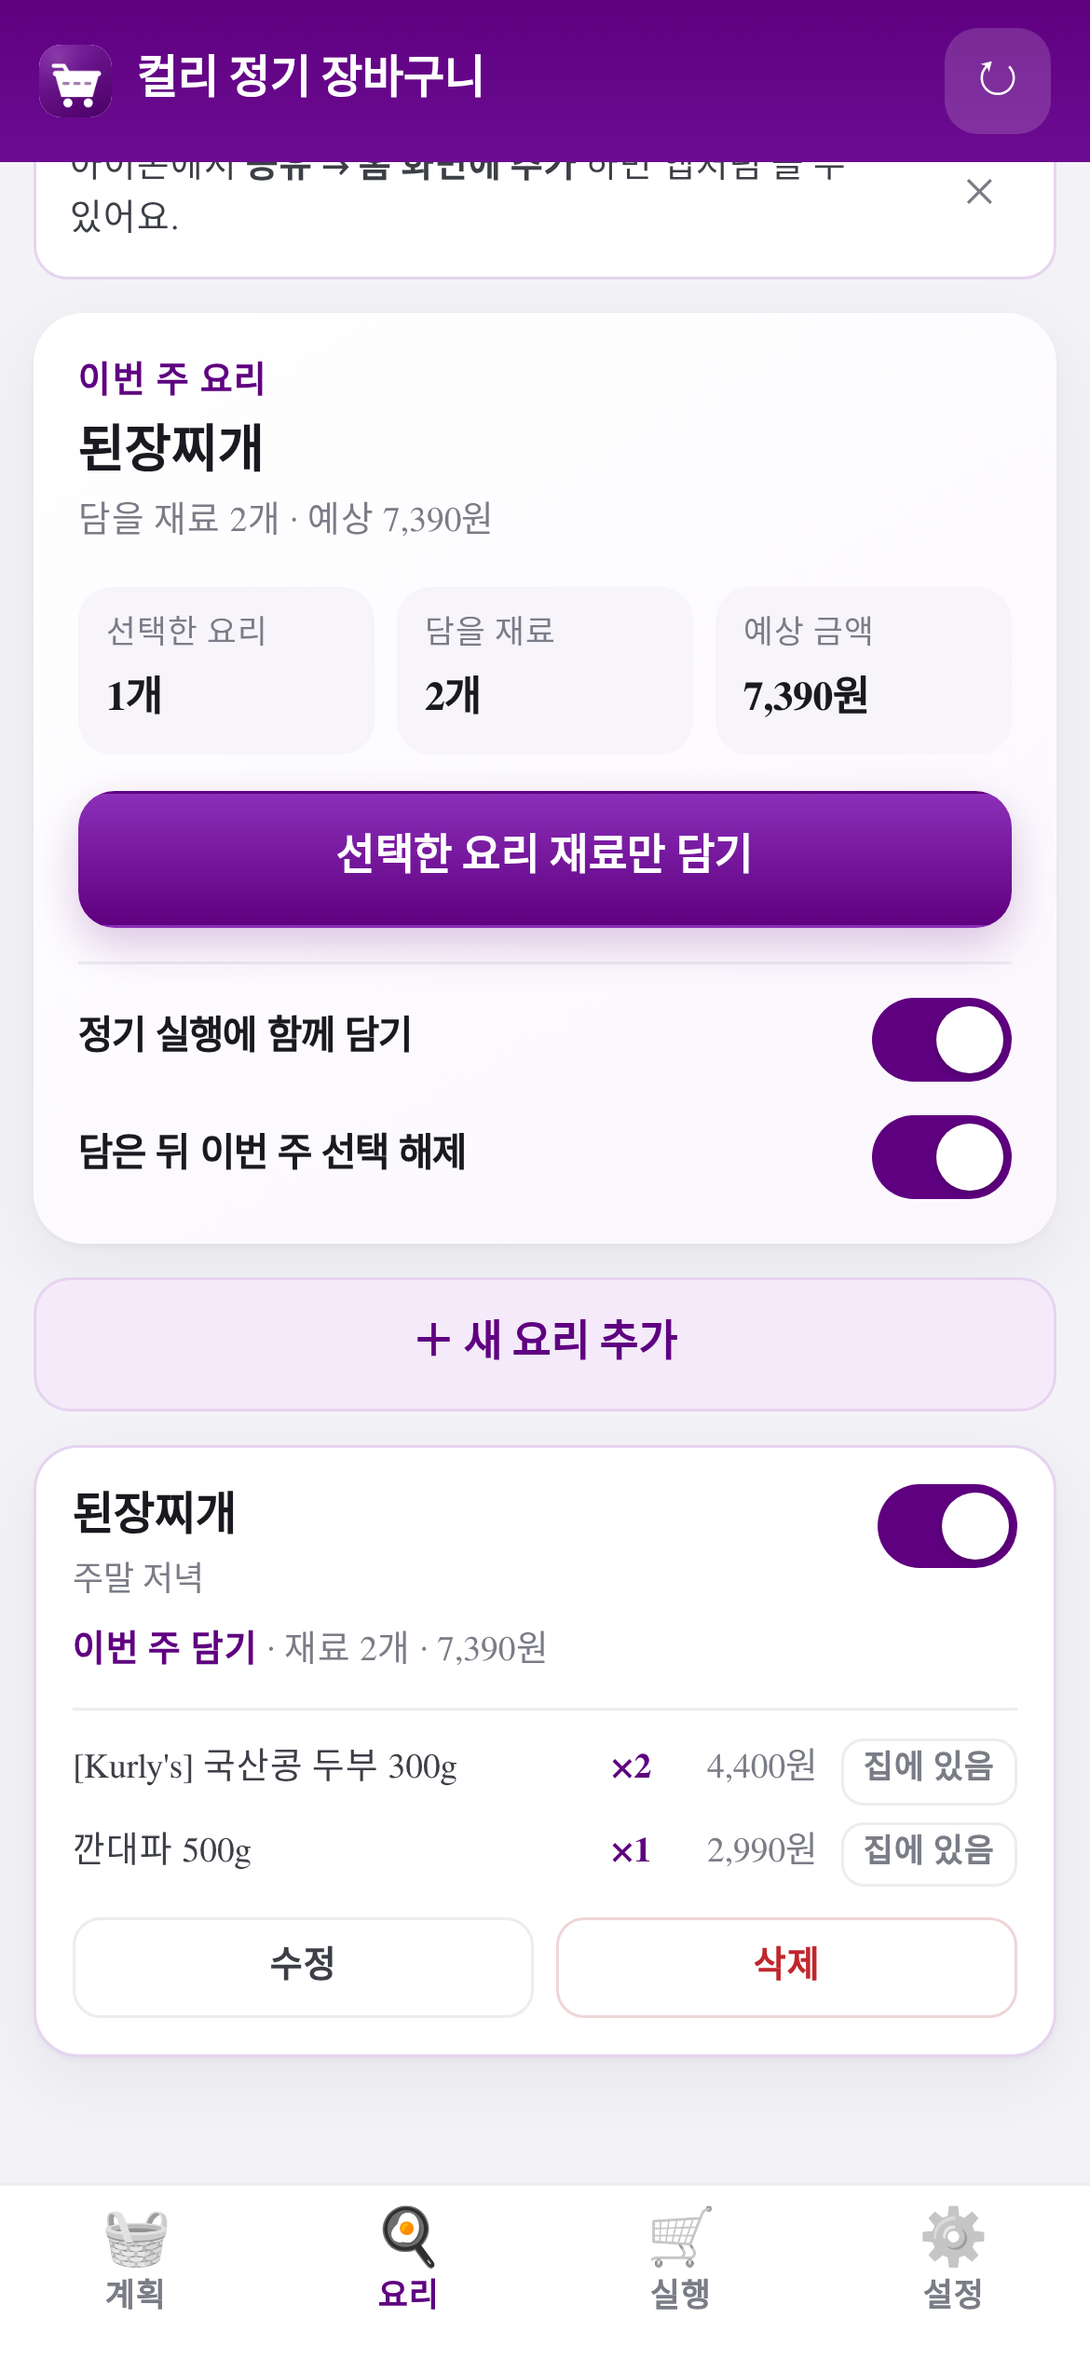
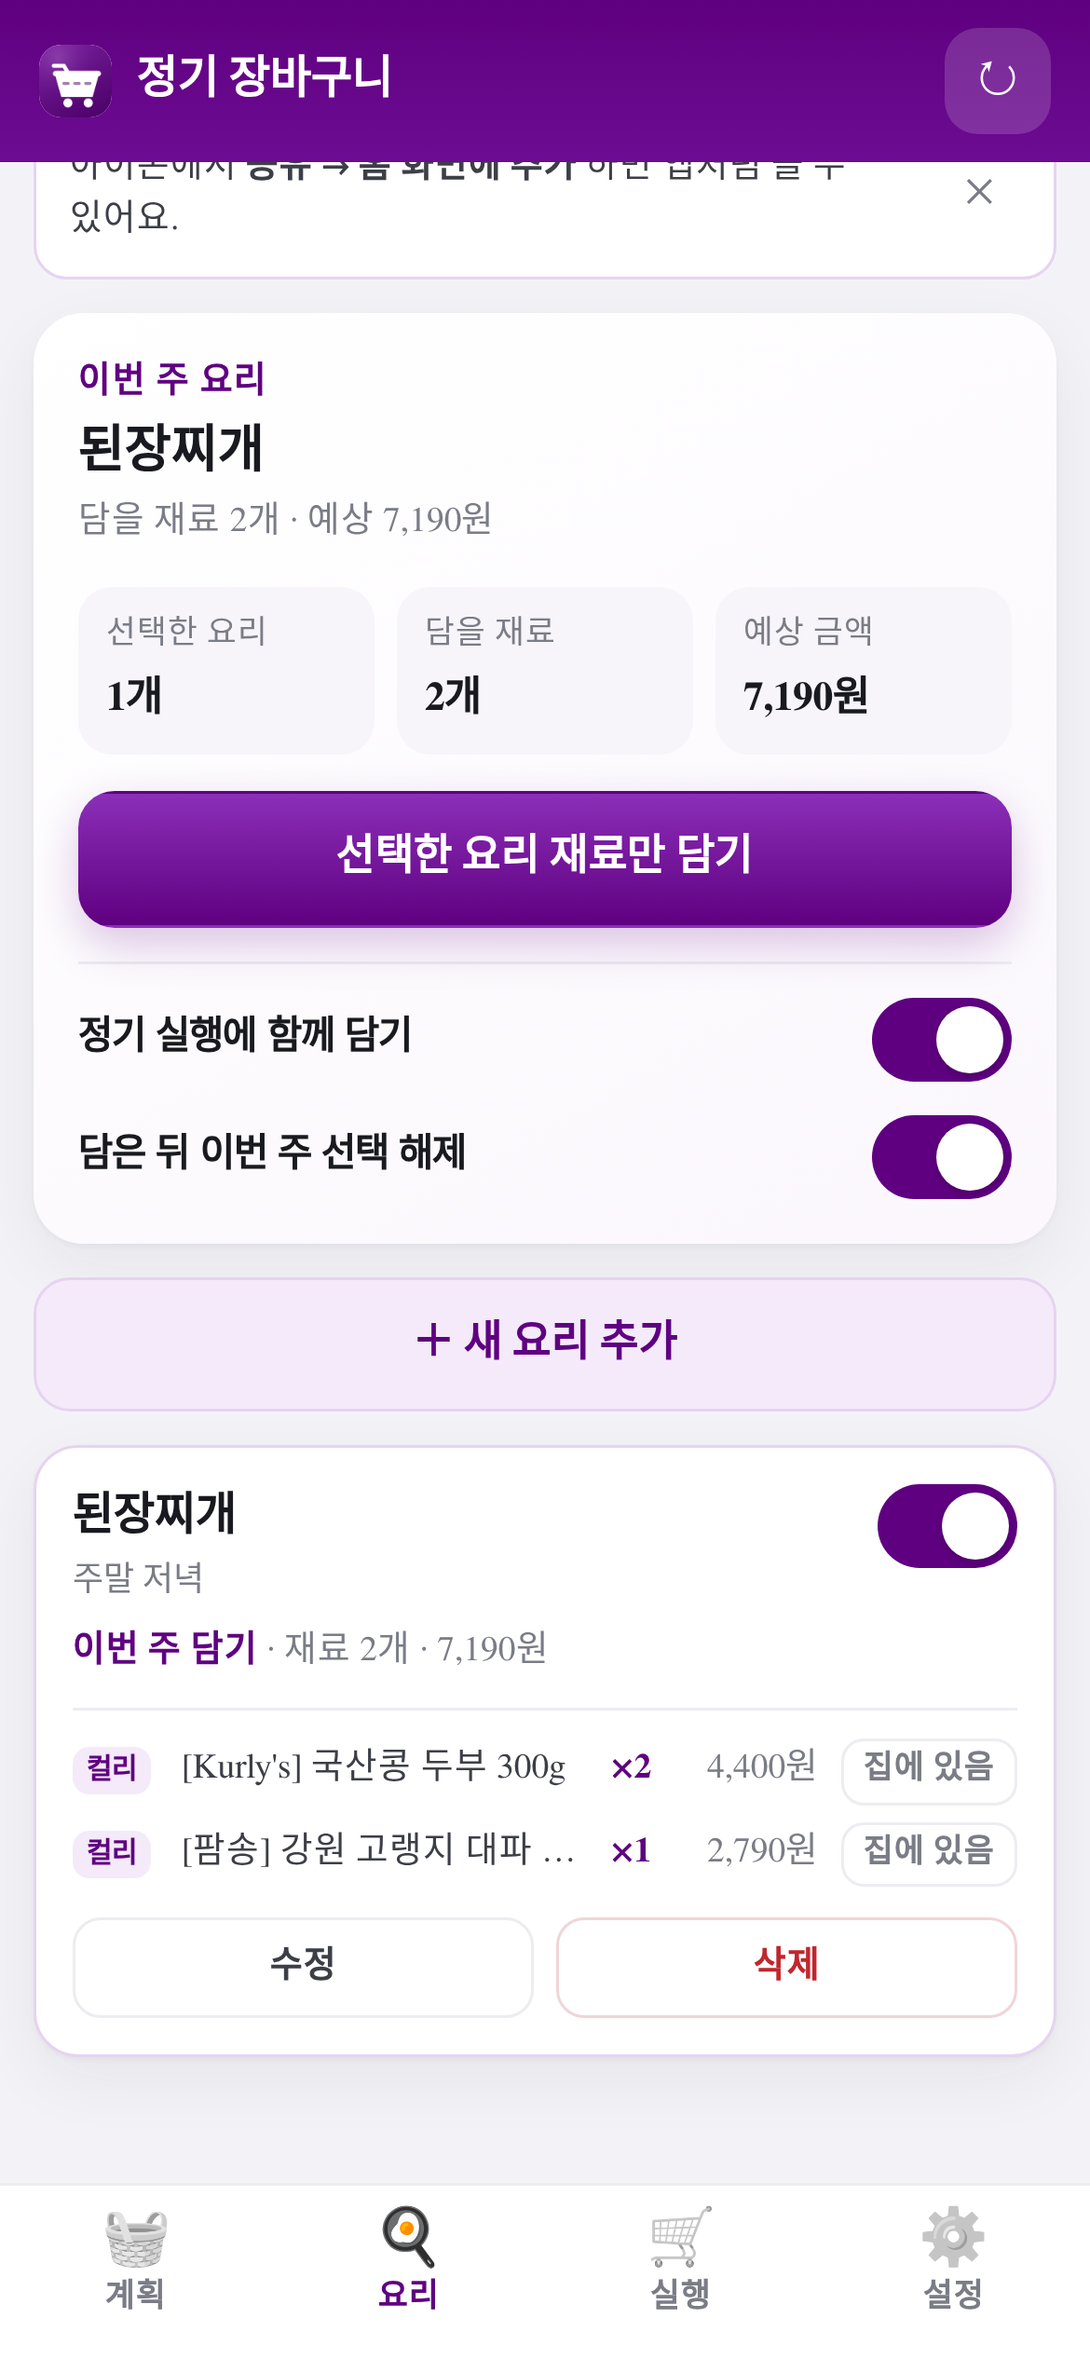
feat(plan): 계획 탭에 [컬리 | 오아시스] 선택 스위치 추가, 앱 이름을 '정기 장바구니'로 변경
- 계획 탭 정기 품목 위에 [컬리 N | 오아시스 M] pill — 고른 마켓 품목만 표시
  · 빈 마켓이면 "○○ 정기 품목이 아직 없어요" 안내
  · [＋ 상품 검색해서 담기]는 지금 보고 있는 마켓으로 검색 시트를 엶
  · 요약 카드(담을 상품·예상 금액)는 두 마켓 전체, pill 옆 한 줄에 고른 마켓 개수·금액
- 앱 이름 '컬리 정기 장바구니' → '정기 장바구니'
  (title·상단 바·홈 화면 이름·매니페스트·알림 기본 제목·웹훅 서명)
- 서비스 워커 캐시 kurly-v2.3.1, 버전 2.3.1
- UI 테스트: 계획 탭 마켓 전환·필터·빈 안내·검색 시트 마켓 승계, 페이지 제목
- 문서 화면 캡처 갱신

diff --git a/public/app.js b/public/app.js
@@ -1,6 +1,6 @@
 'use strict';
 /**
- * 컬리 정기 장바구니 — 화면 로직
+ * 정기 장바구니 — 화면 로직
  *  · 로그인/회원가입(초대 코드) → 계획 · 실행 · 설정 3개 탭
  *  · 계획은 "1주 소비량 → 담을 수량" 자동 계산, 저장 버튼으로 서버에 반영
  *  · 실행 화면은 지금 담기 / 미리보기 / 실행 기록, 진행 상황은 /api/status 폴링
@@ -35,6 +35,10 @@ const state = {
   checklistSaving: false,
   // 장볼 목록에서 지금 보고 있는 마켓 (컬리 | 오아시스)
   checklistMarket: 'kurly',
+  // 계획 탭에서 지금 보고 있는 마켓 (컬리 | 오아시스)
+  planMarket: 'kurly',
+  // 사용자가 계획 탭에서 마켓 pill 을 직접 눌렀는지 — 그 전에는 빈 마켓을 건너뜁니다.
+  planMarketTouched: false,
 };
 
 const WEEKDAY = ['일', '월', '화', '수', '목', '금', '토'];
@@ -307,9 +311,54 @@ function renderPlan() {
   const list = $('#planList');
   list.textContent = '';
   const items = state.plan?.items || [];
+  const counts = { kurly: 0, oasis: 0 };
+  items.forEach((item) => {
+    counts[marketOf(item)] += 1;
+  });
+
+  // 처음 불러왔을 때 고른 마켓이 비어 있고 다른 마켓에 상품이 있으면 그쪽을 보여 줍니다.
+  // (pill 을 직접 누른 뒤에는 고른 마켓을 그대로 두고 안내 문구를 보여 줍니다.)
+  if (!state.planMarketTouched && counts[state.planMarket] === 0) {
+    const other = state.planMarket === 'oasis' ? 'kurly' : 'oasis';
+    if (counts[other] > 0) state.planMarket = other;
+  }
+  const market = state.planMarket === 'oasis' ? 'oasis' : 'kurly';
+
+  const filterCard = $('#planFilterCard');
+  if (filterCard) filterCard.hidden = items.length === 0;
   $('#planEmpty').hidden = items.length > 0;
 
-  items.forEach((item) => {
+  const kCount = $('#planKurlyCount');
+  const oCount = $('#planOasisCount');
+  if (kCount) kCount.textContent = String(counts.kurly);
+  if (oCount) oCount.textContent = String(counts.oasis);
+  $$('#planMarketPills .market-pill').forEach((btn) => {
+    const active = btn.dataset.market === market;
+    btn.classList.toggle('active', active);
+    btn.setAttribute('aria-selected', active ? 'true' : 'false');
+  });
+
+  // 고른 마켓의 품목만 보여 줍니다. (요약 카드의 합계는 두 마켓 전체)
+  const visible = items.filter((item) => marketOf(item) === market);
+  const subtotal = visible
+    .filter((item) => item.active !== false)
+    .reduce((sum, item) => sum + (Number(item.price) || 0) * computeQuantity(item), 0);
+  const meta = $('#planMarketMeta');
+  if (meta) {
+    meta.textContent = visible.length
+      ? `${MARKET_LABEL[market]} ${visible.length}개 · ${won(subtotal)}`
+      : `${MARKET_LABEL[market]} 0개`;
+  }
+
+  const marketEmpty = $('#planMarketEmpty');
+  if (marketEmpty) {
+    marketEmpty.hidden = items.length === 0 || visible.length > 0;
+    if (!marketEmpty.hidden) {
+      $('#planMarketEmptyText').textContent = `${MARKET_LABEL[market]} 정기 품목이 아직 없어요.`;
+    }
+  }
+
+  visible.forEach((item) => {
     const qty = computeQuantity(item);
     const price = (Number(item.price) || 0) * qty;
     const thumb = item.imageUrl
@@ -1531,7 +1580,20 @@ function stopPolling() {
 
 /* ─────────────── 검색 ─────────────── */
 
-function openSearch() {
+function openSearch(preferredMarket = null) {
+  // 계획 탭에서 열면 지금 보고 있는 마켓으로 미리 골라 둡니다.
+  if (preferredMarket) {
+    const next = preferredMarket === 'oasis' ? 'oasis' : 'kurly';
+    if (state.search.market !== next) {
+      state.search.market = next;
+      state.search.results = [];
+      state.search.shown = 8;
+      state.search.q = '';
+      $('#searchResults').textContent = '';
+      $('#searchInput').value = '';
+      $('#searchStatus').hidden = true;
+    }
+  }
   $('#searchSheet').hidden = false;
   $('#searchStatus').hidden = true;
   applyMarketUI();
@@ -2205,7 +2267,7 @@ function pushSupport() {
     return {
       ok: false,
       reason: isIOSDevice()
-        ? '알림이 차단되어 있어요. 아이폰 설정 > 알림 > 컬리 장바구니에서 허용으로 바꿔 주세요.'
+        ? '알림이 차단되어 있어요. 아이폰 설정 > 알림 > 정기 장바구니에서 허용으로 바꿔 주세요.'
         : '브라우저 설정에서 이 사이트의 알림을 허용해 주세요.',
     };
   }
@@ -2549,8 +2611,17 @@ function bindEvents() {
   window.addEventListener('hashchange', () => setTab(location.hash.replace('#', ''), { push: false }));
 
   // 계획
-  $('#openSearchBtn').addEventListener('click', openSearch);
+  $('#openSearchBtn').addEventListener('click', () => openSearch(state.planMarket));
   $('#loadStarterBtn').addEventListener('click', loadStarter);
+  $('#planMarketPills').addEventListener('click', (e) => {
+    const btn = e.target.closest('[data-market]');
+    if (!btn) return;
+    const next = btn.dataset.market === 'oasis' ? 'oasis' : 'kurly';
+    state.planMarketTouched = true;
+    if (state.planMarket === next) return;
+    state.planMarket = next;
+    renderPlan();
+  });
   $('#saveBtn').addEventListener('click', savePlan);
   $('#refreshBtn').addEventListener('click', async () => {
     try {

diff --git a/public/index.html b/public/index.html
@@ -3,13 +3,13 @@
 <head>
 <meta charset="utf-8" />
 <meta name="viewport" content="width=device-width, initial-scale=1, viewport-fit=cover" />
-<title>컬리 정기 장바구니</title>
+<title>정기 장바구니</title>
 <meta name="description" content="1주에 한 번, 먹을 만큼만 마켓컬리 장바구니에 담아두는 앱" />
 <meta name="theme-color" content="#5F0080" />
 <meta name="apple-mobile-web-app-capable" content="yes" />
 <meta name="mobile-web-app-capable" content="yes" />
 <meta name="apple-mobile-web-app-status-bar-style" content="default" />
-<meta name="apple-mobile-web-app-title" content="컬리 장바구니" />
+<meta name="apple-mobile-web-app-title" content="정기 장바구니" />
 <meta name="format-detection" content="telephone=no" />
 <link rel="manifest" href="/manifest.json" />
 <link rel="apple-touch-icon" href="/icons/apple-touch-icon.png" />
@@ -29,7 +29,7 @@
 <section class="auth" id="authView" hidden>
   <div class="auth-brand">
     <img src="/icons/icon-192.png" alt="" width="72" height="72" />
-    <h1>컬리 정기 장바구니</h1>
+    <h1>정기 장바구니</h1>
     <p>1주에 한 번, 먹을 만큼만<br />마켓컬리 장바구니에 담아둘게요.</p>
   </div>
 
@@ -70,7 +70,7 @@
   <header class="appbar">
     <div class="appbar-title">
       <img src="/icons/icon-192.png" alt="" width="26" height="26" />
-      <span>컬리 정기 장바구니</span>
+      <span>정기 장바구니</span>
     </div>
     <button class="icon-btn" id="refreshBtn" type="button" aria-label="새로고침" title="새로고침">↻</button>
   </header>
@@ -98,7 +98,24 @@
       <span aria-hidden="true">＋</span> 상품 검색해서 담기
     </button>
 
+    <section class="card plan-filter" id="planFilterCard" aria-label="계획 마켓 선택">
+      <div class="row-between">
+        <h2 class="card-title flush">정기 품목</h2>
+        <span class="muted small" id="planMarketMeta">0개</span>
+      </div>
+      <div class="market-pills" id="planMarketPills" role="tablist" aria-label="계획에서 볼 마켓">
+        <button type="button" class="market-pill active" data-market="kurly" role="tab" aria-selected="true">컬리 <span class="cnt" id="planKurlyCount">0</span></button>
+        <button type="button" class="market-pill" data-market="oasis" role="tab" aria-selected="false">오아시스 <span class="cnt" id="planOasisCount">0</span></button>
+      </div>
+    </section>
+
     <div class="plan-list" id="planList"></div>
+
+    <div class="empty card" id="planMarketEmpty" hidden>
+      <p class="empty-emoji" aria-hidden="true">🧺</p>
+      <p id="planMarketEmptyText">오아시스 정기 품목이 아직 없어요.</p>
+      <p class="muted">[＋ 상품 검색해서 담기]로 담아 보세요.</p>
+    </div>
 
     <div class="empty card" id="planEmpty" hidden>
       <p class="empty-emoji" aria-hidden="true">🧺</p>

diff --git a/server.js b/server.js
@@ -1,7 +1,7 @@
 #!/usr/bin/env node
 'use strict';
 /**
- * 컬리 정기 장바구니 — 멀티유저 PWA 서버
+ * 정기 장바구니 — 멀티유저 PWA 서버
  *
  *   npm start  →  http://localhost:3000
  *
@@ -35,7 +35,7 @@ const checklist = require('./lib/checklist');
 const push = require('./lib/webpush');
 const store = require('./lib/store');
 
-const APP_NAME = '컬리 정기 장바구니';
+const APP_NAME = '정기 장바구니';
 const VERSION = require('./package.json').version;
 const PORT = Number(process.env.PORT) || 3000;
 
@@ -912,7 +912,7 @@ function createApp({ logger = createLogger('app'), schedulerEnabled = envBool('S
           const result = await push.sendToUser(
             user.userId,
             {
-              title: '🔔 컬리 정기 장바구니 테스트 알림',
+              title: '🔔 정기 장바구니 테스트 알림',
               body: '이 알림이 보이면 푸시가 제대로 연결된 거예요. 정기 실행이 끝나면 결과를 알려드릴게요.',
               url: '/#settings',
               tag: 'kurly-test',

diff --git a/public/styles.css b/public/styles.css
@@ -1,5 +1,5 @@
 /* ─────────────────────────────────────────────
-   컬리 정기 장바구니 — 모바일 우선 PWA 스타일
+   정기 장바구니 — 모바일 우선 PWA 스타일
    iPhone Safari(390×844) 기준으로 설계, 데스크톱에서는 가운데 정렬
    ───────────────────────────────────────────── */
 
@@ -256,6 +256,12 @@ b { font-weight: 700; }
 .stat b { font-size: 14.5px; letter-spacing: -0.01em; }
 
 .plan-list { display: flex; flex-direction: column; gap: 10px; }
+
+/* 계획 탭 — [컬리 | 오아시스] 마켓 선택 */
+.plan-filter { padding: 14px 14px 12px; margin-bottom: 10px; }
+.plan-filter .market-pills { margin: 10px 0 0; }
+.plan-filter .card-title { font-size: 15px; }
+.plan-filter .muted.small { font-weight: 700; color: var(--ink-2); }
 
 .plan-item {
   background: #fff; border-radius: 16px; padding: 12px; box-shadow: var(--shadow);

diff --git a/public/sw.js b/public/sw.js
@@ -8,7 +8,7 @@
  *  · push: 서버가 보낸 웹 푸시를 알림으로 표시 (iOS 16.4+ 홈 화면 앱)
  *  · notificationclick: 앱을 열거나 이미 열린 창을 앞으로 가져옵니다.
  */
-const VERSION = 'kurly-v2.3.0';
+const VERSION = 'kurly-v2.3.1';
 const SHELL = [
   '/',
   '/index.html',
@@ -53,7 +53,7 @@ self.addEventListener('push', (event) => {
     payload = { body: event.data ? event.data.text() : '' };
   }
 
-  const title = payload.title || '컬리 정기 장바구니';
+  const title = payload.title || '정기 장바구니';
   const options = {
     body: payload.body || '장바구니 담기 결과가 도착했어요.',
     icon: '/icons/icon-192.png',

diff --git a/test/webhook.test.js b/test/webhook.test.js
@@ -46,7 +46,7 @@ test('알림 문구: 상품·수량·실패 이유·합계가 들어간다', () 
   assert.match(text, /⏭ 닭 다리살 ×2/);
   assert.match(text, /장바구니 총 6건/);
   assert.match(text, /예상 금액 75,152원/);
-  assert.match(text, /앰버님의 컬리 정기 장바구니/);
+  assert.match(text, /앰버님의 정기 장바구니/);
 
   const ok = formatSummary({ ...SUMMARY, failed: 0, items: SUMMARY.items.slice(0, 2) });
   assert.match(ok, /담았어요/);

diff --git a/lib/notify.js b/lib/notify.js
@@ -41,7 +41,7 @@ function formatSummary(summary, { nickname } = {}) {
   if (summary.checklistMode || summary.status === 'checklist') {
     lines.push('앱의 실행 탭 [컬리에서 열기]·[오아시스에서 열기] 목록에서 하나씩 담아 주세요.');
   }
-  if (nickname) lines.push(`— ${nickname}님의 컬리 정기 장바구니`);
+  if (nickname) lines.push(`— ${nickname}님의 정기 장바구니`);
   return lines.join('\n');
 }
 

diff --git a/README.md b/README.md
@@ -1,4 +1,4 @@
-# 🛒 컬리 정기 장바구니 (kurly-auto-app)
+# 🛒 정기 장바구니 (kurly-auto-app)
 
 [![tests](https://github.com/yoonyoon0117-crypto/kurly-auto-app/actions/workflows/test.yml/badge.svg)](https://github.com/yoonyoon0117-crypto/kurly-auto-app/actions/workflows/test.yml)
 [![MIT License](https://img.shields.io/badge/license-MIT-blue.svg)](LICENSE)
@@ -20,16 +20,18 @@ v2.3.0 부터 **오아시스마켓**도 같은 화면에서 검색해 목록에 
 
 ## 화면 미리보기 (아이폰 390×844)
 
-<img src="docs/screens/03-plan-starter-items-390x844.png" width="250" alt="계획 탭 — 기본 4개 상품과 다음 정기 실행">
+<img src="docs/screens/03-plan-starter-items-390x844.png" width="250" alt="계획 탭 — 다음 정기 실행과 정기 품목">
+<img src="docs/screens/20-plan-market-oasis-390x844.png" width="250" alt="계획 탭 — [컬리 | 오아시스] 로 마켓을 골라 보기">
 <img src="docs/screens/09-run-tab-390x844.png" width="250" alt="실행 탭 — 지금 담기·미리보기·실행 기록">
 <img src="docs/screens/13-recipe-tab-390x844.png" width="250" alt="요리 탭 — 이번 주 요리와 필수재료">
 <img src="docs/screens/14-checklist-390x844.png" width="250" alt="실행 탭 — 이번 주 장볼 목록과 컬리에서 열기">
 <img src="docs/screens/15-oasis-checklist-390x844.png" width="250" alt="실행 탭 — [컬리 | 오아시스] 로 바뀌는 이번 주 장볼 목록">
 <img src="docs/screens/10-settings-390x844.png" width="250" alt="설정 탭 — 정기 실행과 컬리 계정 연결">
 
-왼쪽부터 **계획 탭**(기본 4개 상품·예상 금액·다음 정기 실행) · **실행 탭**(이번 주 장볼 목록·지금 담기·실행 기록) ·
-**요리 탭**(이번 주 요리·필수재료·집에 있음) · **장볼 목록**(마켓별 목록·담음 체크) ·
-**오아시스 목록**(오아시스에서 열기·초록 배지) · **설정 탭**(주기·요일·시각, 컬리 계정 연결).
+왼쪽부터 **계획 탭**(다음 정기 실행·예상 금액) · **계획 탭 마켓 선택**([컬리 | 오아시스] 와 마켓별 개수·금액) ·
+**실행 탭**(이번 주 장볼 목록·지금 담기·실행 기록) · **요리 탭**(이번 주 요리·필수재료·집에 있음) ·
+**장볼 목록**(마켓별 목록·담음 체크) · **오아시스 목록**(오아시스에서 열기·초록 배지) ·
+**설정 탭**(주기·요일·시각, 컬리 계정 연결).
 모두 테스트 계정(`앰버`)으로 찍은 화면입니다.
 
 ---
@@ -93,6 +95,13 @@ ntfy·별도 앱 없이 담기 결과가 잠금화면 알림으로 오고, VAPID
   오아시스 상품은 장볼 목록에 남아 `[오아시스에서 열기]`로 직접 담고 `담음` 체크합니다.
   오아시스 상품만 있으면 브라우저를 열지 않고 목록만 준비해 알림합니다.
 - 서비스 워커 캐시는 `kurly-v2.3.0` 으로 올렸습니다.
+
+**v2.3.1 (2026-11-22)** — **계획 탭의 `[컬리 | 오아시스]` 전환**과 **앱 이름 정리**.
+- **계획 탭 마켓 선택**: 정기 품목 위의 `[컬리 N | 오아시스 M]` pill 로 그 마켓 품목만 볼 수 있습니다.
+  고른 마켓에 품목이 없으면 안내 문구를 보여 주고, **[＋ 상품 검색해서 담기]** 를 누르면 그 마켓이 선택된 채로 검색 화면이 열립니다.
+  요약 카드의 **담을 상품 · 예상 금액은 두 마켓 전체** 합계이고, pill 옆 개수와 품목 위 한 줄(`컬리 5개 · 23,400원`)이 지금 보고 있는 마켓의 몫을 알려 줍니다.
+- **앱 이름**: `컬리 정기 장바구니` → **`정기 장바구니`** (화면 제목·상단 바·홈 화면 이름·매니페스트·알림 기본 제목).
+- 서비스 워커 캐시는 `kurly-v2.3.1` 로 올렸습니다.
 
 **v2.2.3 (2026-11-20)** — **알림 문구 정리**. 목록 알림 제목을 `🛒 이번 주 장볼 목록을 체크할 시간이에요` 로 바꿔
 잠금화면에서 무엇을 하면 되는지 한 줄로 보이게 했고, 설정의 푸시 상태 문구도 `켜짐 — 이 기기 알림으로 보내드려요.` 로 줄였습니다.
@@ -455,7 +464,7 @@ sudo systemctl restart caddy
 - 알림을 누르면 앱이 열리고 **실행 탭**으로 이동합니다.
 - 구독 정보는 사용자 파일(`data/users/{userId}.json`)에만 저장되며 다른 사용자와 섞이지 않습니다.
 - 푸시 서비스가 `404`/`410`(앱 삭제·구독 만료)으로 답하면 서버가 그 구독을 **자동으로 정리**합니다.
-- 알림이 안 오면: 아이폰 **설정 → 알림 → 컬리 장바구니** 가 허용인지, 홈 화면 앱으로 열었는지 확인하세요.
+- 알림이 안 오면: 아이폰 **설정 → 알림 → 정기 장바구니** 가 허용인지, 홈 화면 앱으로 열었는지 확인하세요.
 
 ---
 
